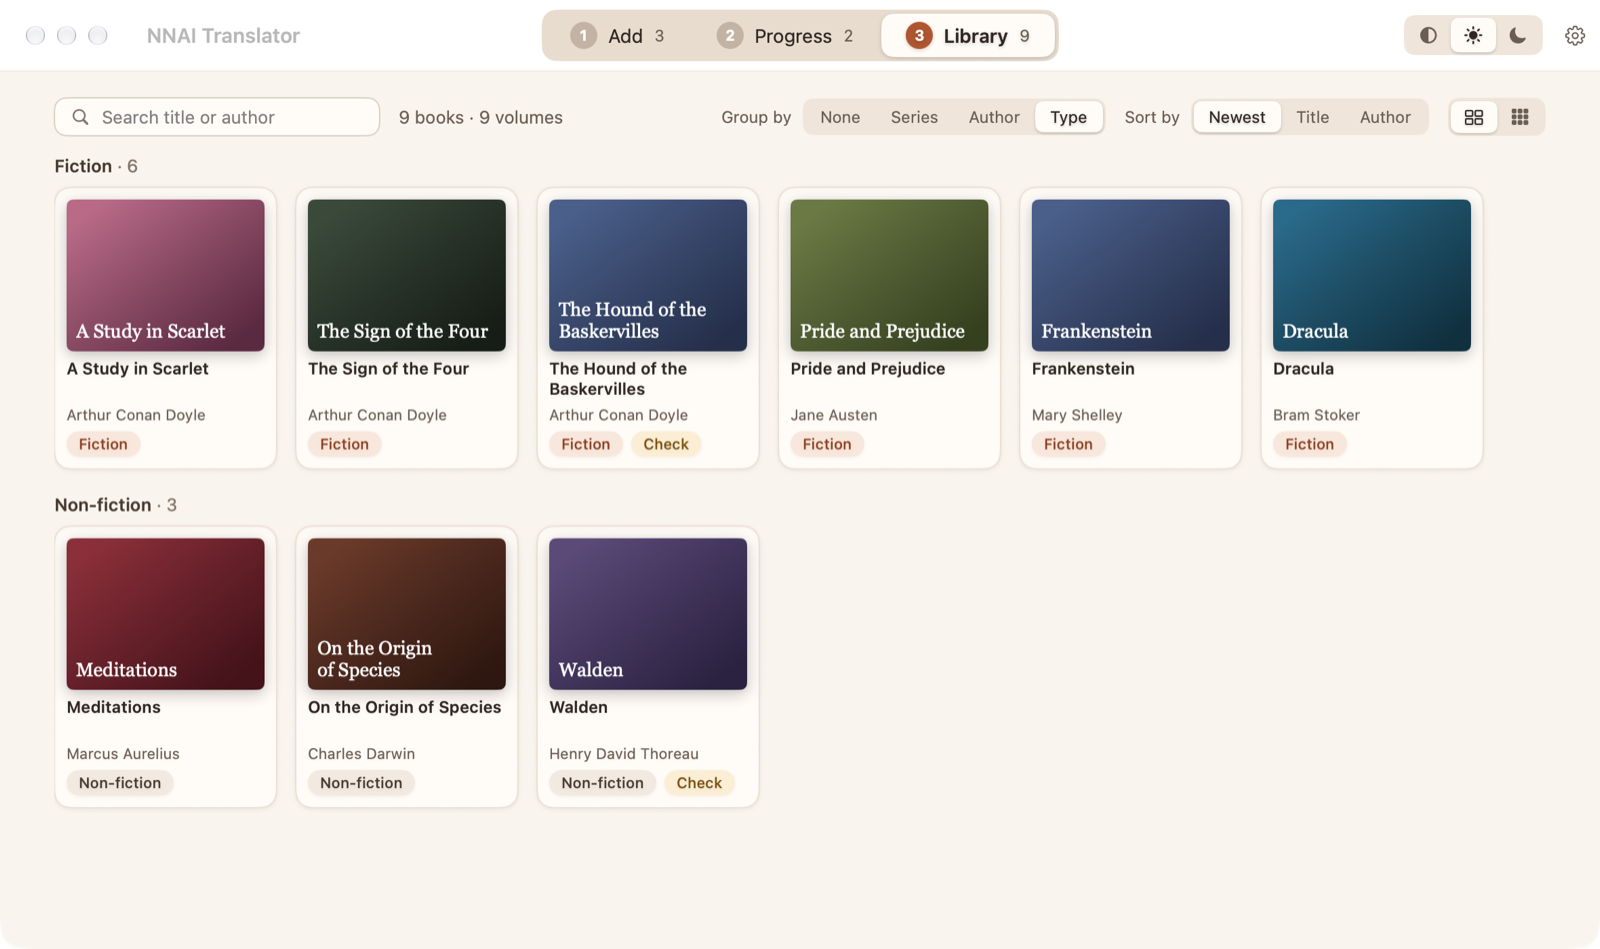
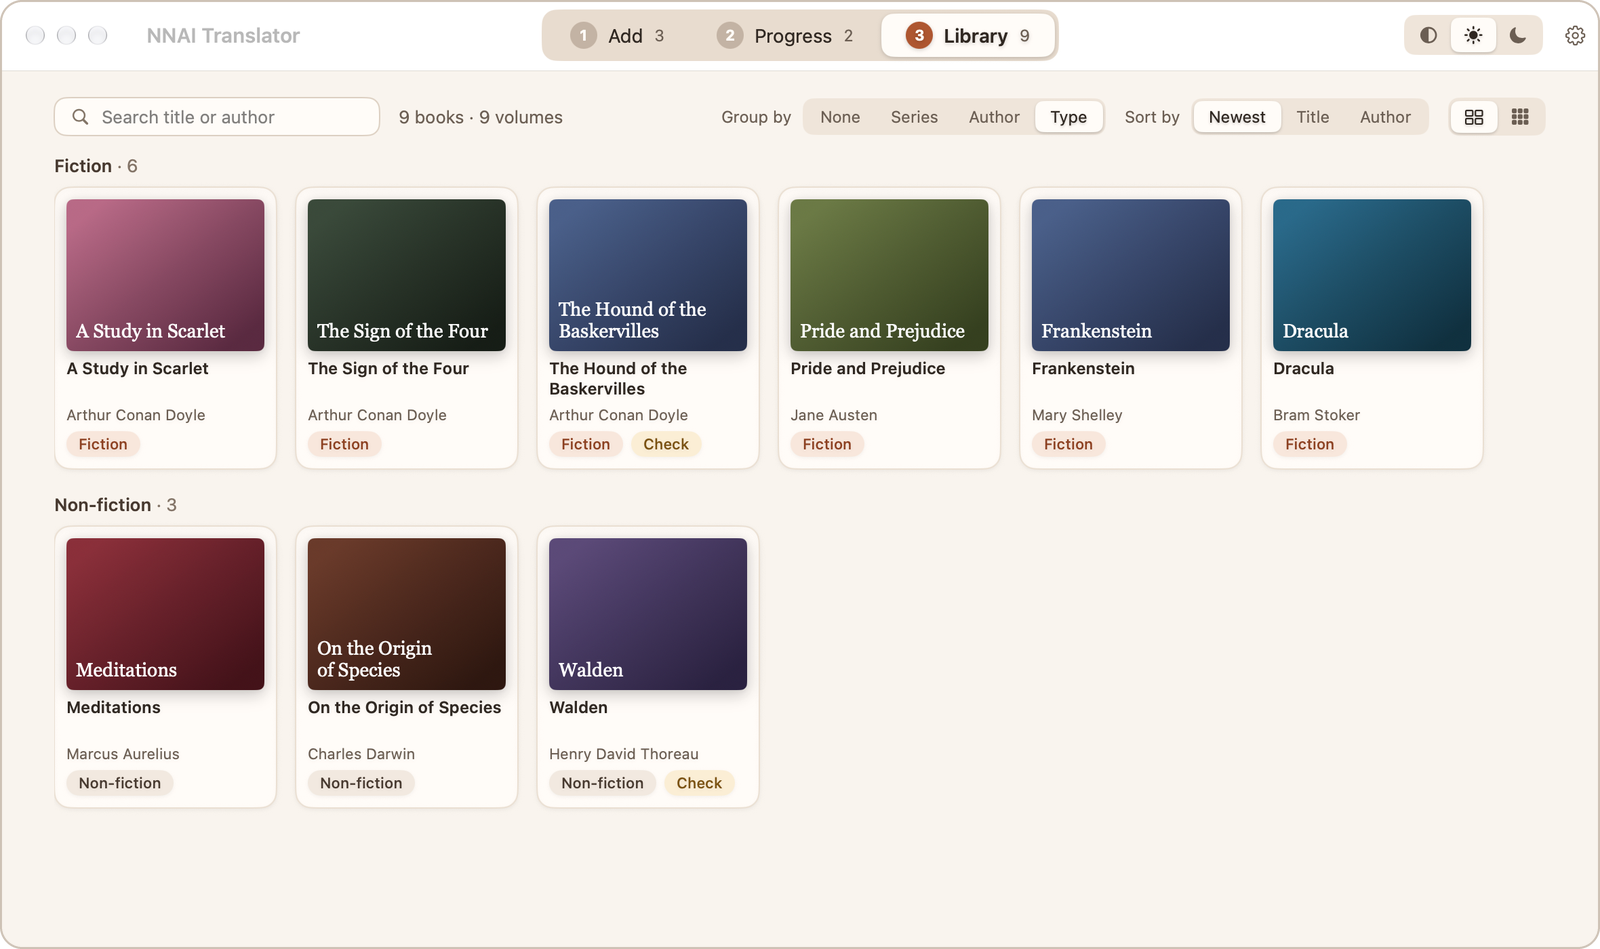
README: one screenshot section, in order, with larger pictures
The progress picture joins the others under four short headings, each picture at
full width. They are rendered in narrower windows, stripped of empty rows and
outlined, so the text is readable on light and dark pages.

diff --git a/app/BookTranslator/Tests/SnapshotTests.swift b/app/BookTranslator/Tests/SnapshotTests.swift
@@ -217,10 +217,12 @@ final class SnapshotTests: XCTestCase {
         moon.workdir = "moon"
 
         let out = URL(fileURLWithPath: dir)
-        try capture(env(RootView(initialStage: .process), m), to: out, name: "progress")
-        try capture(env(RootView(initialStage: .input), m), to: out, name: "add-books")
-        try capture(env(ReviewSheet(book: moon), m), to: out, name: "review", size: CGSize(width: 1000, height: 640), titled: false)
-        try capture(env(RootView(initialStage: .library), m), to: out, name: "library")
+        // Windows near the app's smallest size, so the text stays readable when a README shrinks the picture;
+        // the library is wider, to show every sample book.
+        try capture(env(RootView(initialStage: .input), m), to: out, name: "add-books", size: CGSize(width: 960, height: 600))
+        try capture(env(ReviewSheet(book: moon), m), to: out, name: "review", size: CGSize(width: 960, height: 620), titled: false)
+        try capture(env(RootView(initialStage: .process), m), to: out, name: "progress", size: CGSize(width: 960, height: 600))
+        try capture(env(RootView(initialStage: .library), m), to: out, name: "library", size: CGSize(width: 1180, height: 700))
     }
 
     /// A picture of the window as the window server draws it (corners, shadows and strokes as on screen).

diff --git a/app/BookTranslator/Tools/frame_screenshots.py b/app/BookTranslator/Tools/frame_screenshots.py
@@ -1,0 +1,74 @@
+#!/usr/bin/env python3
+"""Turn the rendered screens into the pictures of the main README.
+
+    python3 -I Tools/frame_screenshots.py RENDERED_FOLDER ../../docs/images/nnai
+
+The input comes from ``SnapshotTests/testReadmeScreens``. Needs Pillow. Each picture is
+converted to sRGB, resized to 1600 px, stripped of empty rows, given rounded corners and a
+thin outline (so it stands apart on a light and on a dark page), and saved without metadata.
+"""
+
+import io
+import sys
+
+from PIL import Image, ImageCms, ImageDraw
+
+WIDTH = 1600
+OUTLINE = (205, 193, 180)
+#: Rows of the resized picture where the window is empty, as (first, last) to cut out.
+EMPTY_ROWS = {"add-books": (660, 940), "progress": (773, None)}
+
+
+def to_srgb(image):
+    profile = image.info.get("icc_profile")
+    rgb = image.convert("RGB")
+    if not profile:
+        return rgb
+    return ImageCms.profileToProfile(rgb, ImageCms.ImageCmsProfile(io.BytesIO(profile)),
+                                     ImageCms.createProfile("sRGB"))
+
+
+def without_rows(image, first, last):
+    """``image`` without the rows from ``first`` to ``last`` (None: to the bottom)."""
+    tail = image.height - last if last else 0
+    result = Image.new("RGB", (image.width, first + tail))
+    result.paste(image.crop((0, 0, image.width, first)), (0, 0))
+    if tail:
+        result.paste(image.crop((0, last, image.width, image.height)), (0, first))
+    return result
+
+
+def rounded(size, inset, radius, scale=4):
+    width, height = size
+    mask = Image.new("L", (width * scale, height * scale), 0)
+    ImageDraw.Draw(mask).rounded_rectangle(
+        [inset * scale, inset * scale, (width - inset) * scale - 1, (height - inset) * scale - 1],
+        radius=radius * scale, fill=255)
+    return mask.resize(size, Image.LANCZOS)
+
+
+def frame(image, name):
+    rgb = to_srgb(image)
+    rgb = rgb.resize((WIDTH, round(rgb.height * WIDTH / rgb.width)), Image.LANCZOS)
+    if name in EMPTY_ROWS:
+        rgb = without_rows(rgb, *EMPTY_ROWS[name])
+    outlined = Image.composite(rgb, Image.new("RGB", rgb.size, OUTLINE), rounded(rgb.size, 2, 20))
+    result = outlined.convert("RGBA")
+    result.putalpha(rounded(rgb.size, 0, 22))
+    return result
+
+
+def main(arguments):
+    if len(arguments) != 2:
+        print("usage: frame_screenshots.py RENDERED_FOLDER OUTPUT_FOLDER", file=sys.stderr)
+        return 2
+    source, target = arguments
+    for name in ("add-books", "review", "progress", "library"):
+        picture = frame(Image.open(f"{source}/{name}.png"), name)
+        picture.save(f"{target}/{name}.png", optimize=True)
+        print(f"{name}.png {picture.width}x{picture.height}")
+    return 0
+
+
+if __name__ == "__main__":
+    sys.exit(main(sys.argv[1:]))

diff --git a/README.md b/README.md
@@ -8,10 +8,6 @@ NNAI Translator is a Mac app that translates EPUB and TXT books with the command
 already signed in on your Mac: **Claude**, **Codex** and **Antigravity**. Add your books, put them in
 order, and they are translated one after another while you do something else.
 
-<p align="center">
-  <img src="docs/images/nnai/progress.png" alt="The Progress screen: the book being translated with its four stages, the time each took, the volume and percentage done, and the queue" width="880">
-</p>
-
 ## What it does
 
 - **Queue.** Add many books at once, drag them into the order you want, pause and resume any time, even
@@ -32,15 +28,38 @@ order, and they are translated one after another while you do something else.
 
 ## Screenshots
 
-The pictures show sample data.
+From the first file to the finished book, with sample data.
 
-| Add books and set their order | Check names and style before a novel starts |
-| --- | --- |
-| <img src="docs/images/nnai/add-books.png" alt="The Add screen: uploaded books on the left, books ready to translate on the right" width="430"> | <img src="docs/images/nnai/review.png" alt="The review sheet: names and terms to keep or translate, writing styles and an example" width="430"> |
+### 1. Add books
+
+Drop EPUB or TXT files and put them in the order you want.
 
 <p align="center">
-  <img src="docs/images/nnai/library.png" alt="The Library: finished books with their covers, grouped by type" width="880">
-  <br><em>The library of finished books</em>
+  <img src="docs/images/nnai/add-books.png" alt="The Add screen: uploaded books on the left, books ready to translate on the right" width="840">
+</p>
+
+### 2. Review a novel
+
+Before it starts, choose which names stay as they are and pick the writing style.
+
+<p align="center">
+  <img src="docs/images/nnai/review.png" alt="The review sheet: names and terms to keep or translate, three writing styles and an example" width="840">
+</p>
+
+### 3. Follow the progress
+
+The four stages and the time each took, the volume and percentage done, and the queue.
+
+<p align="center">
+  <img src="docs/images/nnai/progress.png" alt="The Progress screen: a book in its translation stage at 62 percent of volume 3 of 10, with one book waiting" width="840">
+</p>
+
+### 4. Open your library
+
+Finished books with their covers. A book that needs a look is marked **Check**.
+
+<p align="center">
+  <img src="docs/images/nnai/library.png" alt="The Library: nine finished books grouped into fiction and non-fiction" width="840">
 </p>
 
 ## How it differs from the main project

diff --git a/app/BookTranslator/README.md b/app/BookTranslator/README.md
@@ -100,5 +100,5 @@ drive the real engine and CLIs end to end when `BT_INTEGRATION=<epub>` and `BT_R
 folder>` are set (with `TEST_RUNNER_` prefixes under `xcodebuild`). Both are skipped otherwise.
 
 The pictures in the main README come from sample data: run `SnapshotTests/testReadmeScreens` with
-`TEST_RUNNER_BT_README_DIR=<folder>`, then copy the results to `docs/images/nnai/` (converted to sRGB,
-1600 px wide).
+`TEST_RUNNER_BT_README_DIR=<folder>`, then
+`python3 -I Tools/frame_screenshots.py <folder> ../../docs/images/nnai` (needs Pillow).
